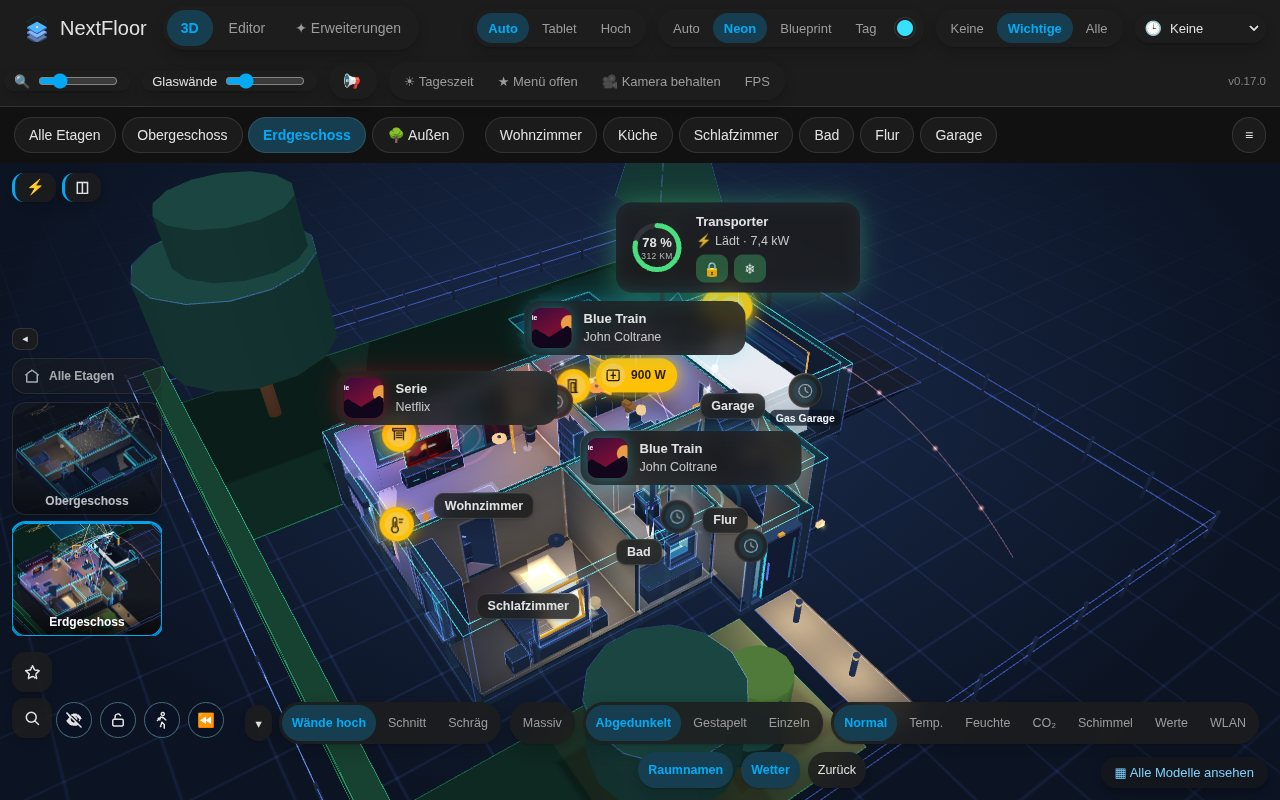
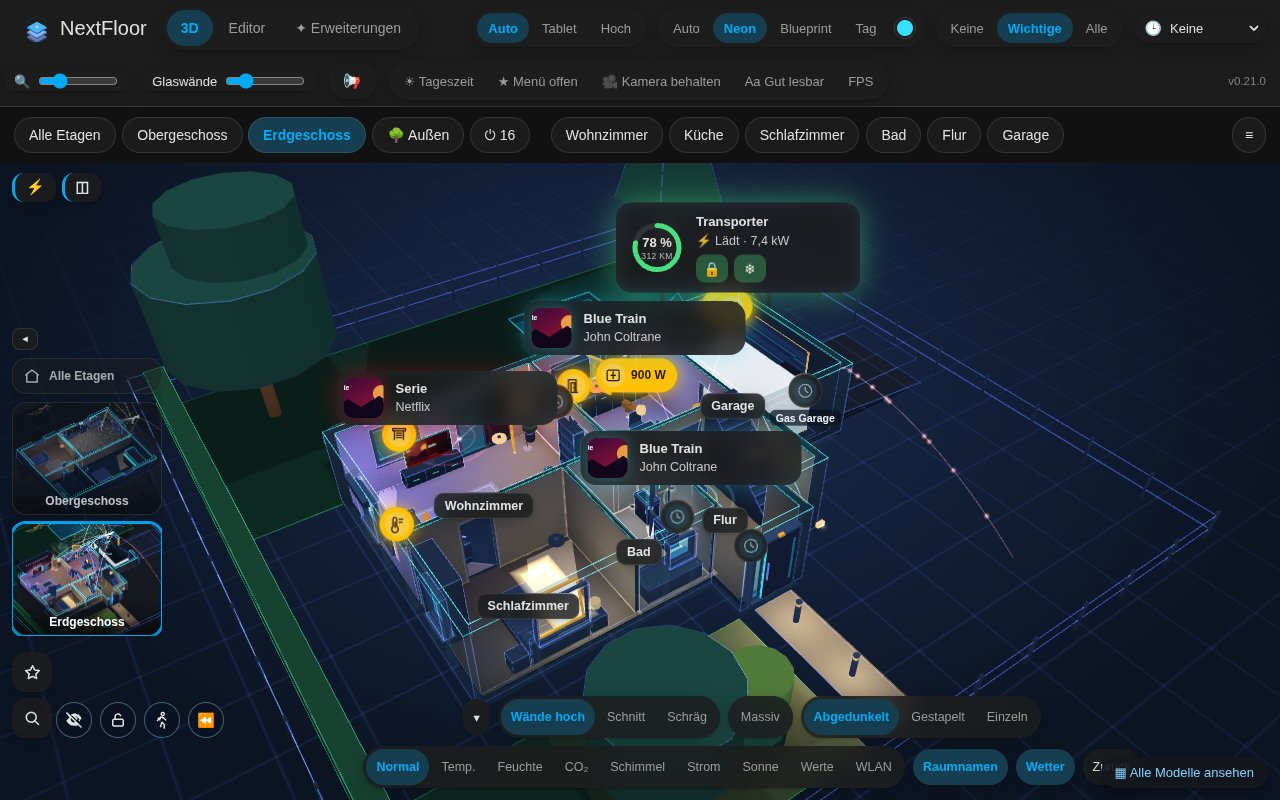
README: what is new in 0.22, fresh screenshots
Claude-Session: https://claude.ai/code/session_01ULZ7eVGyzoi5sgh4KWiFLE

diff --git a/README.md b/README.md
@@ -37,11 +37,16 @@ No Pro version, no paid add-ons, no supporter pass, no licence key, no shop.</p>
 
 | | |
 |---|---|
-| ✏ **Plan editor** | Floors, rooms, curved walls, doors, windows, shaped stairs, outdoor areas and roofs, drawn in Home Assistant with the 3D view beside the plan. Areas within a room, layers, inside sizes, wall thickness per part. |
+| ✏ **Plan editor** | Floors, rooms, curved walls, doors, windows, shaped stairs, outdoor areas and roofs, drawn in Home Assistant with the 3D view beside the plan. Areas within a room, layers, inside sizes, wall thickness per part, **rooms open to the floor above**, turned roof sections, DXF import. |
+| ✓ **Plan check** | One list of what is missing or off – rooms without an area, devices not placed, overlapping rooms, doors off their wall, links to entities that are gone – each with a fix in one tap. A short tour for a new plan and the sheet of keys (press `?`). |
+| 📐 **Areas & paper** | Living area per room, floor and house, counted like the German Wohnflächenverordnung; **the plan on paper** at 1:100 with measurements and a table of areas, to print or save as PDF. |
+| 🕘 **Versions & notes** | Named states of the plan ("before the renovation") that stay, compared with the plan now; **notes pinned to a spot**, with a due day, as pins in 3D and found by the search. |
 | 💡 **Live 3D** | Tap to switch, swipe to dim, long press for colours. Lamps with several bulbs, blinds (roller, venetian slats, inside blinds, Somfy *My*), windows and doors follow their entities; a room panel lists everything in the room, scenes first. |
 | ✨ **Light designer** | Save a room's lights as a mood, set it again with one tap, carry it over to another room. |
 | 🌡 **Room climate** | Heat maps for temperature (summer and winter scale), humidity, CO₂ and **mould risk**, airing hints, each room's 24-hour temperature curve, underfloor heating that glows. |
-| ⚡ **Energy** | Solar fields (also east-west racks), power flow along real cable routes, battery charge on the unit, gas and water meters, the last 24 hours and **seven days** on the house card. |
+| ☀ **Sun & power per room** | Heat maps for the **hours of sun** each room gets today through its windows (from the plan, its compass and the sun's path) and for **what each room draws now**; both also in the room panel. |
+| ⚡ **Energy** | Solar fields (also east-west racks), power flow along real cable routes, battery charge on the unit, gas and water meters, a meter per floor, the last 24 hours and **seven days** on the house card. |
+| 🤖 **Sensors for automations** | *Open windows and doors* and *Lights on* as Home Assistant sensors, for the house and every floor, with the entities in their attributes. **Everything off** per room or floor, with undo. |
 | 🔥 **Heat pump & 🖨 3D printer** | Live cards: flow and return, heat and COP; print progress, time left, layer, temperatures and filaments – the print grows on the bed. |
 | 🚗 **Car** | Charge, range, charging along its cable from the wallbox, departure time, distance away, open doors and hatches, lock and climate buttons. |
 | 📶 **Wi-Fi map** | Every access point's reach on the floor, its devices, and which network devices are offline. |
@@ -52,10 +57,12 @@ No Pro version, no paid add-ons, no supporter pass, no licence key, no shop.</p>
 | 📺 **Media** | TV screens with cover and ambilight; a quick menu for every speaker and TV with sources, volume and presets per speaker. |
 | 🛋 **Furniture** | 40 basic models and **40 packs with almost 800 more** – season and decoration, wellness, music, loft, Japandi, workshop, vehicles, **picture frames with your own photos** – L- and U-sofas, IKEA sizes, Tesla models in their paint. Any piece can show only while a helper is on. |
 | 🚶 **Walk and time travel** | Walk through the house at eye level; replay the last hours or days. |
-| 🖥 **Wall tablet ready** | Kiosk mode with night dimming, the star menu open and large, zoom and a kept camera for small screens, a light quality level for old tablets. |
+| 🖥 **Wall tablet ready** | Kiosk mode with night dimming, the star menu open and large, zoom and a kept camera for small screens, **quality that steps down by itself** on slow tablets, an **easy-to-read** mode with stronger contrast and larger text. |
 | 🎨 **Fits your theme** | Colours, font and corner radius from Home Assistant; looks *Neon*, *Blueprint*, *Day*, solid painted walls. |
 | 🧩 **Card, plugins, languages** | `custom:nextfloor-card` with a visual editor, a plugin system with its own store, and nine languages. |
-| 🪑 **Build your own** | The [furniture builder](https://therealmrbk.github.io/NextFloor/builder/) and a community store, own `.glb` models, Sweet Home 3D import, a plan format an AI can write. |
+| 🪑 **Build your own** | The **🛠 furniture studio right in the editor** (cabinets with doors and drawers, shelves, lamps, devices with a display), the [furniture builder](https://therealmrbk.github.io/NextFloor/builder/) and a community store, own `.glb` models, Sweet Home 3D and DXF import, a plan format an AI can write – and **share a view** of your house as a file that opens in any browser. |
+
+<p align="center"><img src="https://raw.githubusercontent.com/therealMRBK/NextFloor/main/docs/images/new-0-22.jpg" width="900" alt="New in 0.22: the furniture studio in the editor, the heat map by hours of sun with the room panel, the plan check, and the plan on paper with living areas"></p>
 
 <p align="center"><img src="https://raw.githubusercontent.com/therealMRBK/NextFloor/main/docs/images/new-furniture.jpg" width="760" alt="A picture frame with an own photo, an L- and a U-shaped sofa, a 3D printer printing with its live card, and a home battery showing its charge"></p>
 
